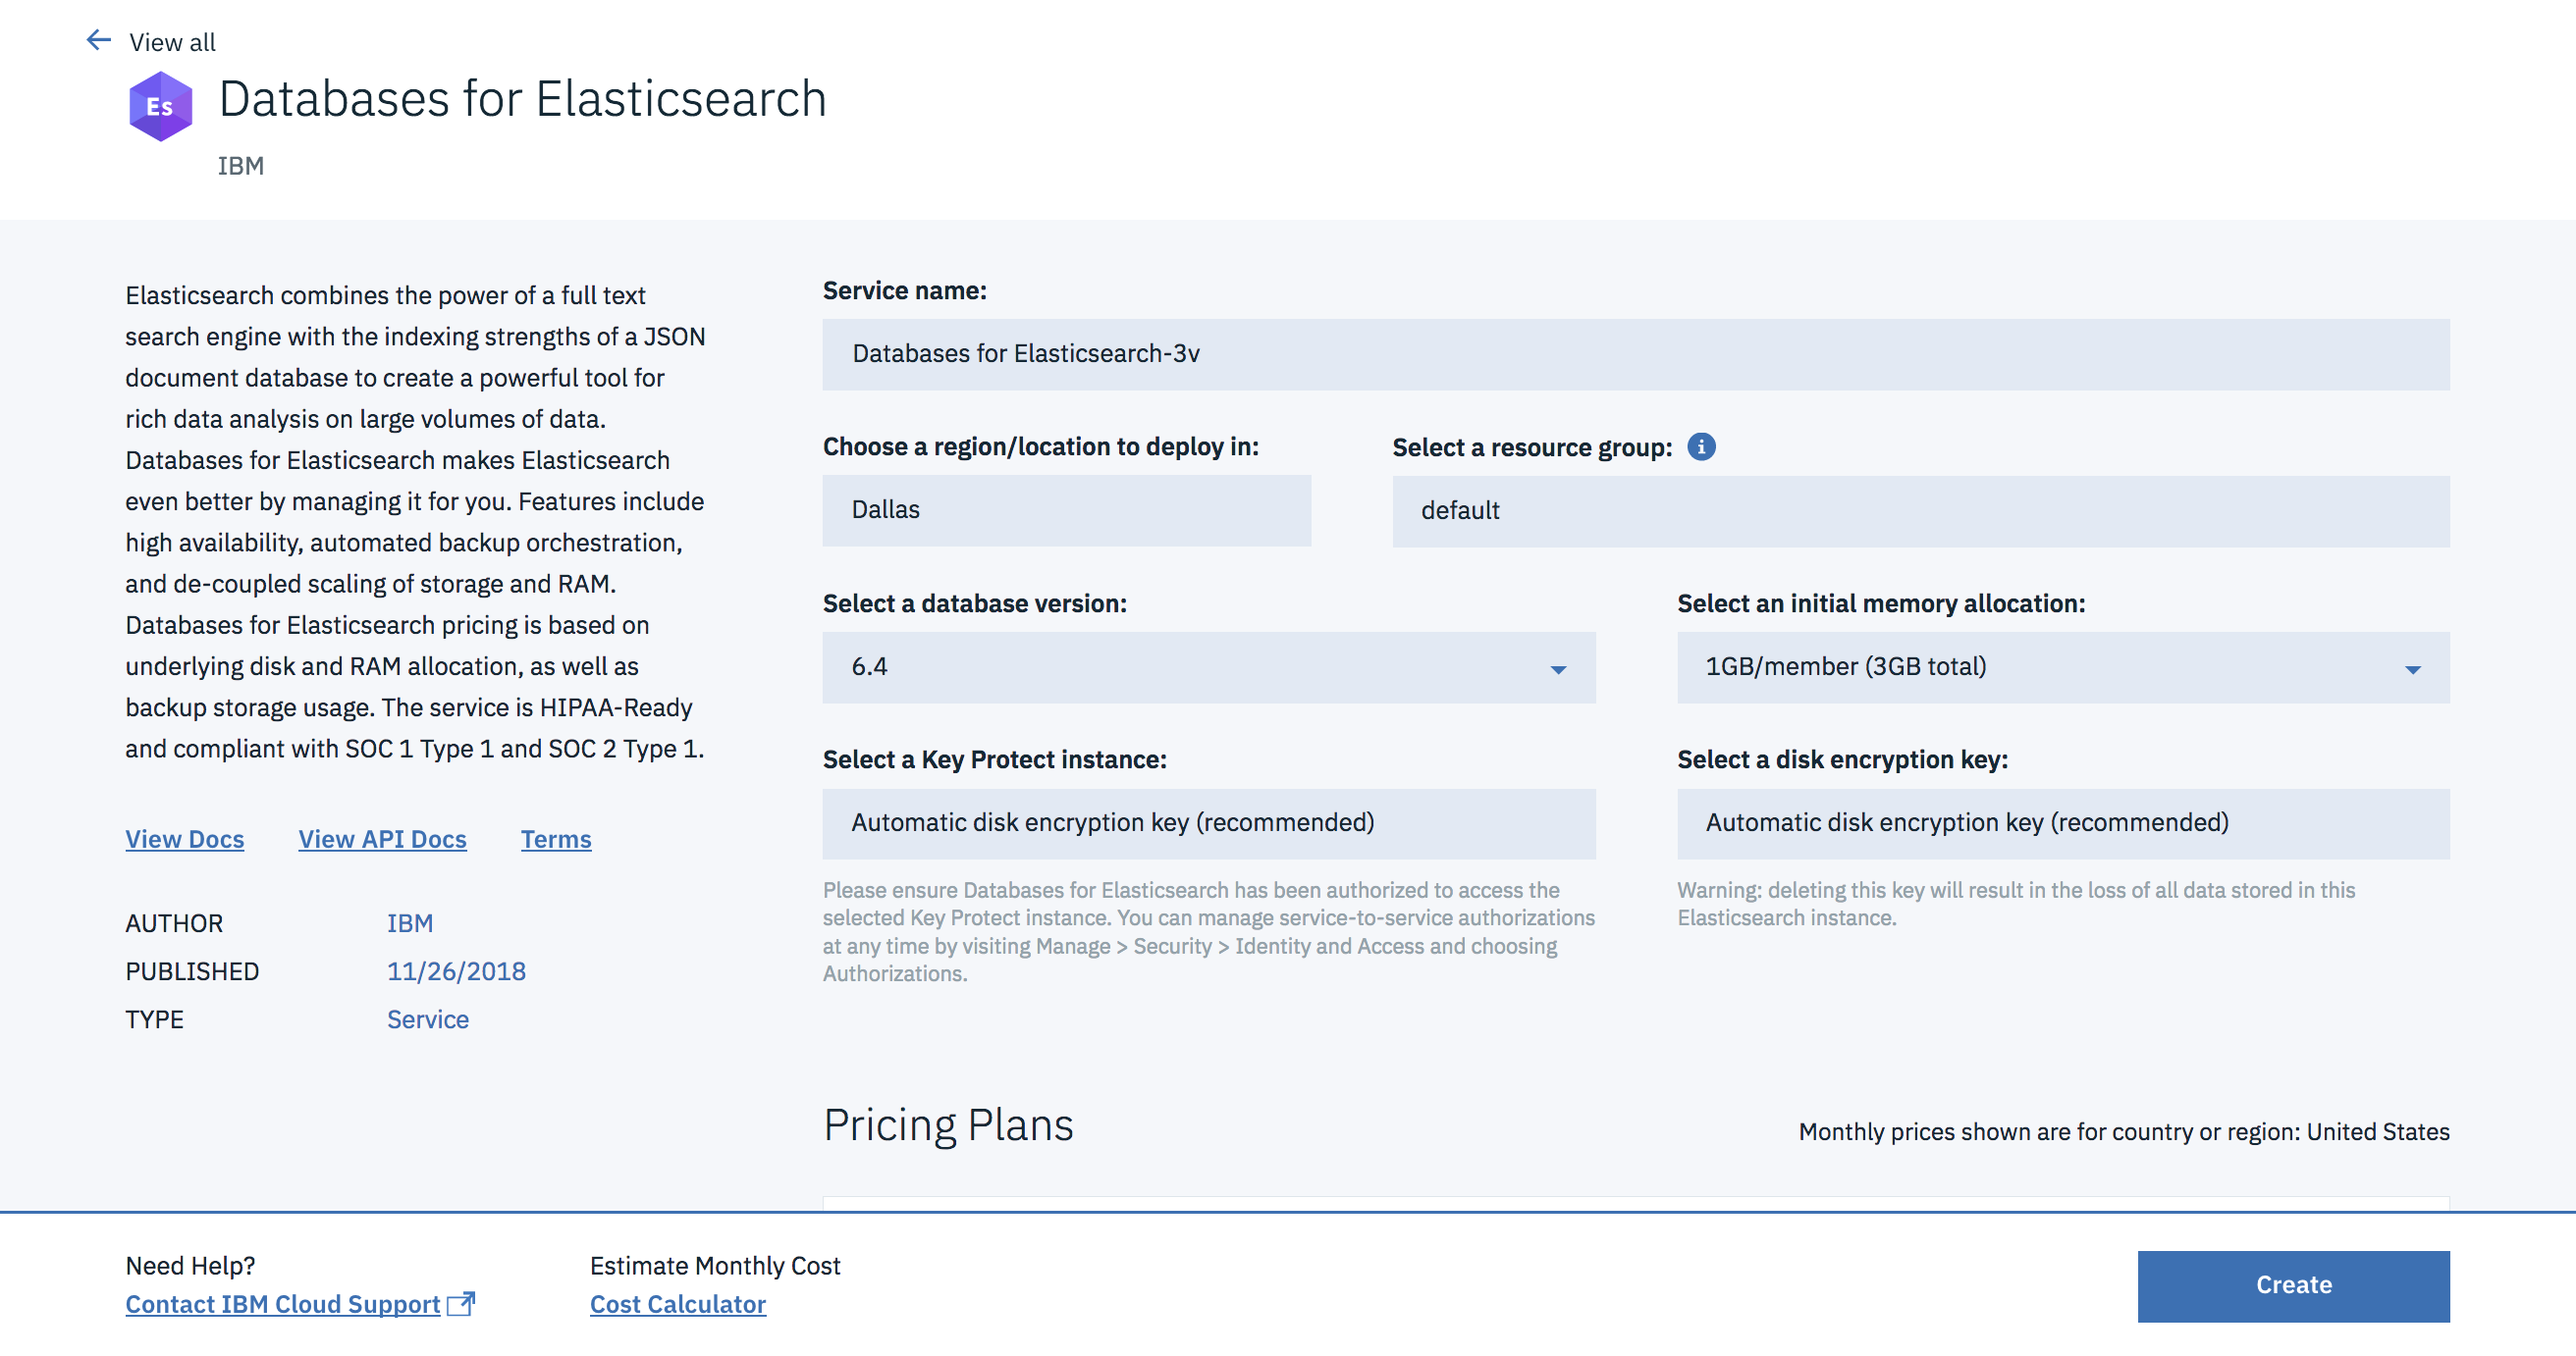
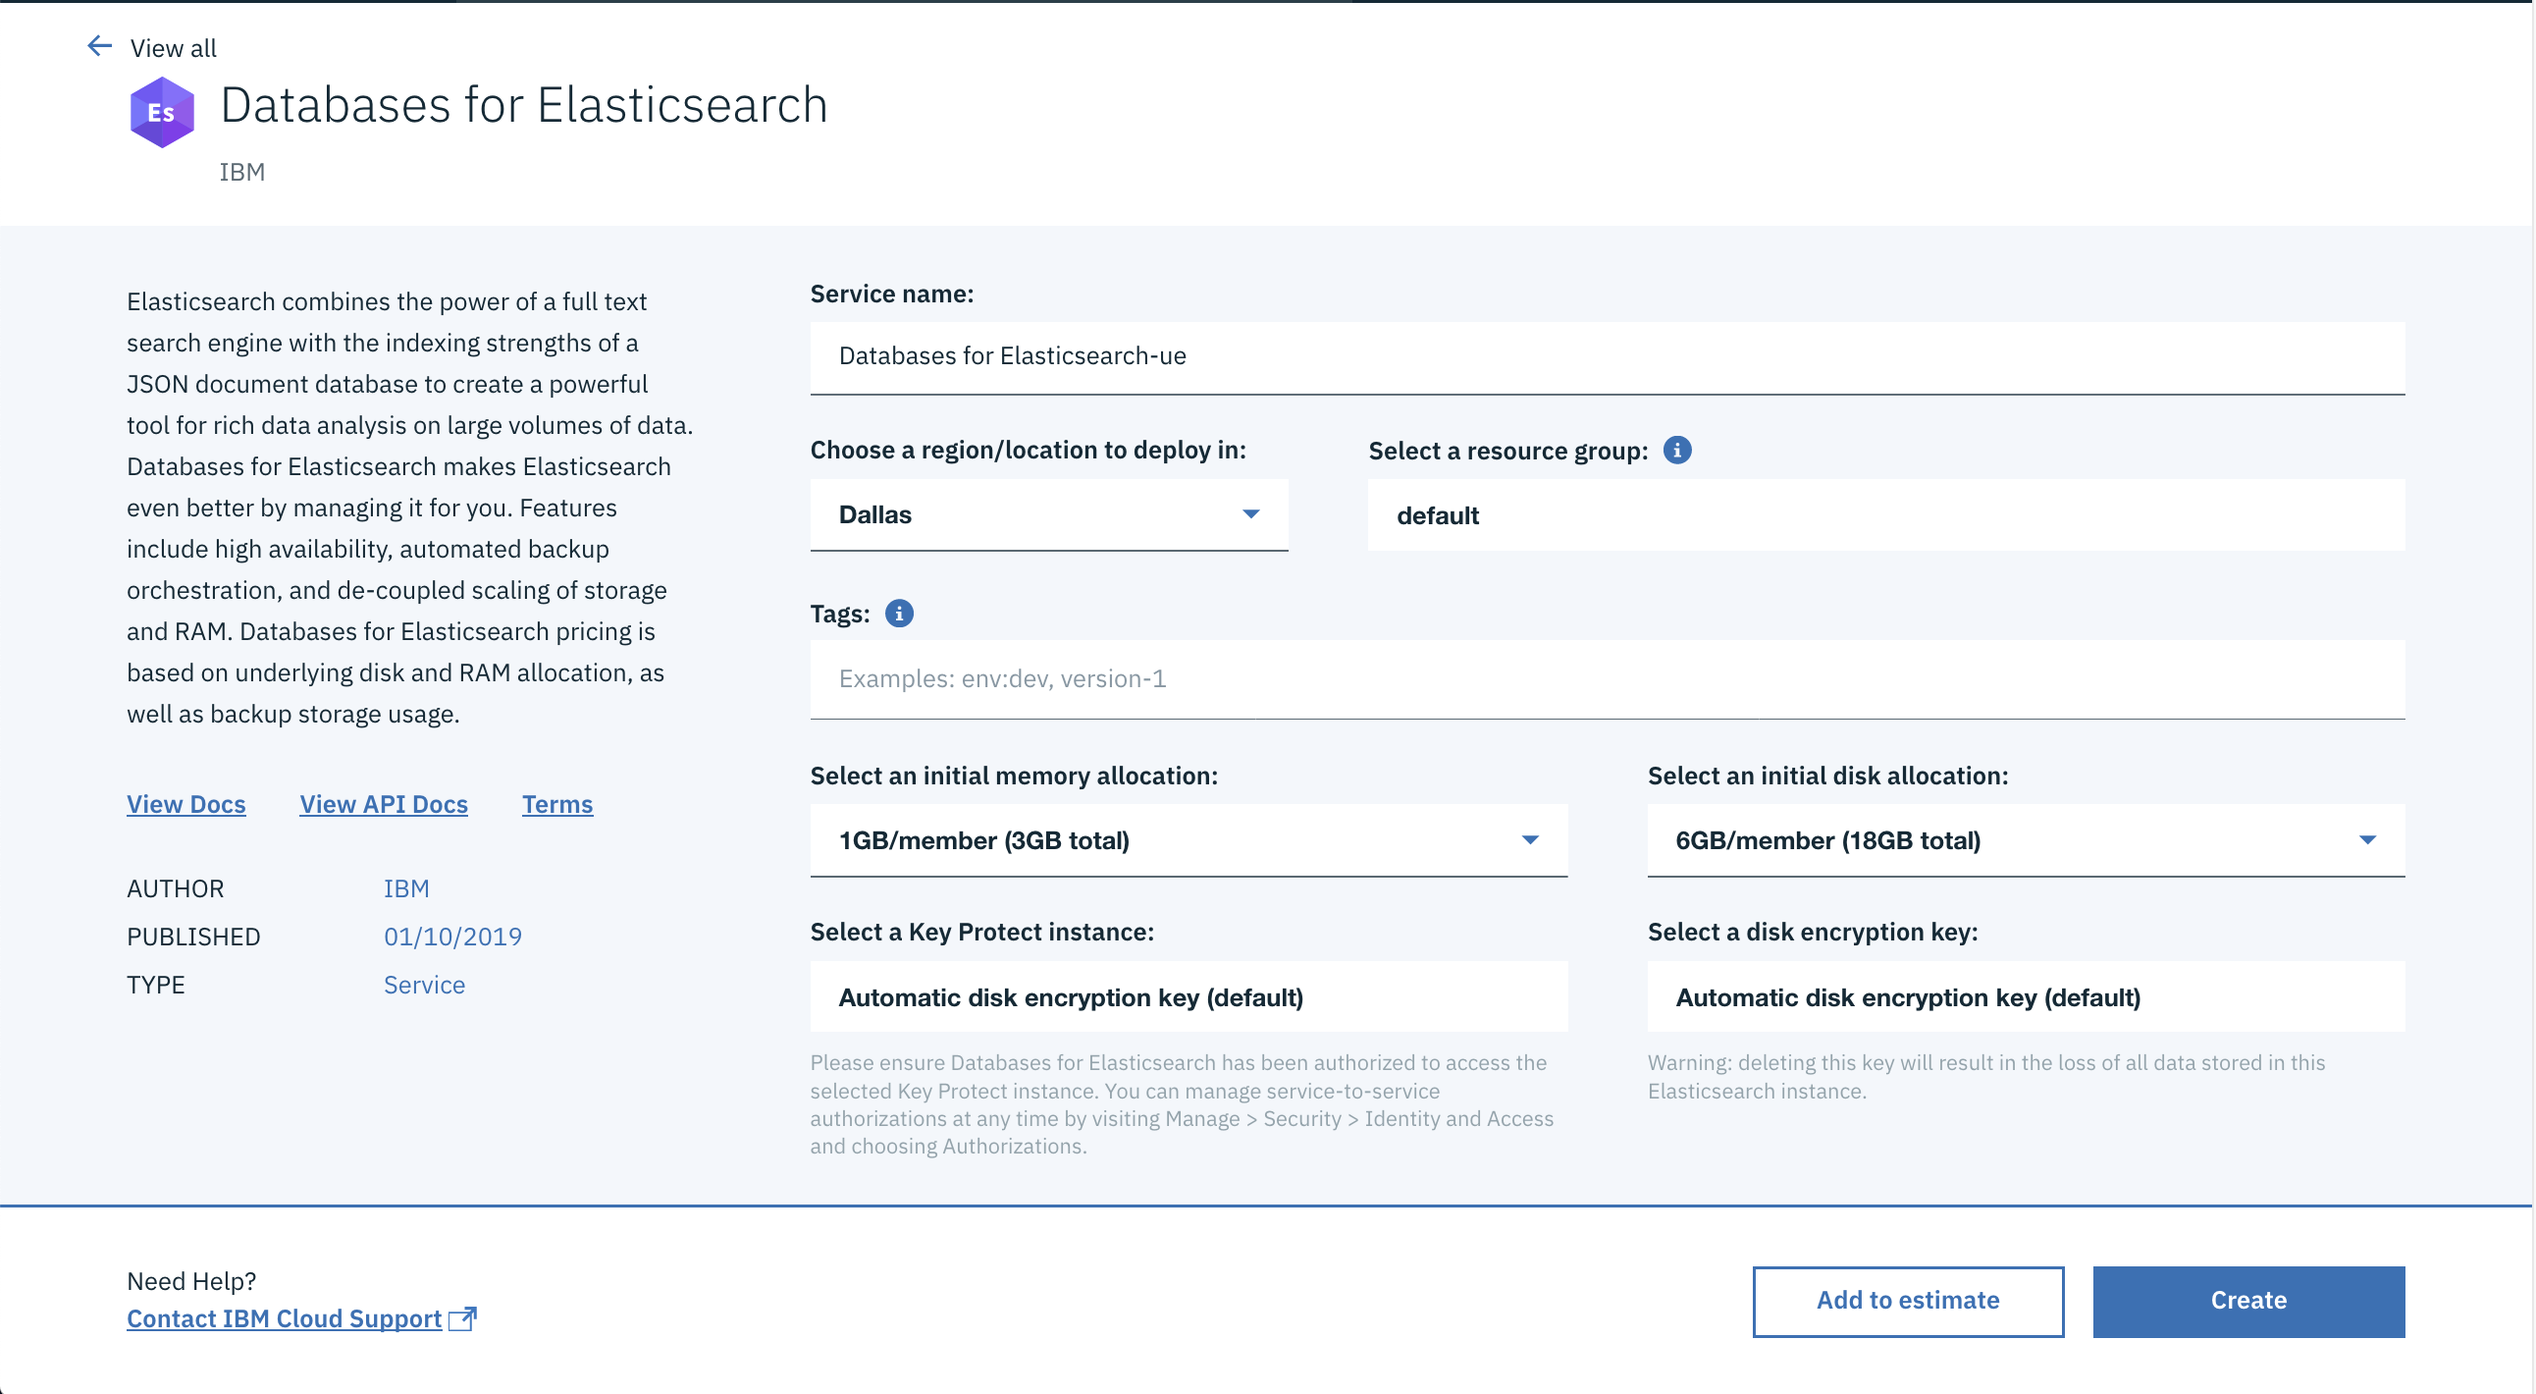
Feature provisioning terraform (#4)
* adding rc api and terraform instructions

* minor tweaks

* updating screenshot despite disk discrepancy

diff --git a/howto-provisioning.md b/howto-provisioning.md
@@ -1,8 +1,8 @@
 ---
 
 copyright:
-  years: 2018
-lastupdated: "2018-10-05"
+  years: 2018, 2019
+lastupdated: "2019-01-02"
 ---
 
 {:shortdesc: .shortdesc}
@@ -15,7 +15,6 @@ lastupdated: "2018-10-05"
 # Provisioning {{site.data.keyword.databases-for-elasticsearch}}
 
 To create an {{site.data.keyword.databases-for-elasticsearch_full}} deployment, you need to create an {{site.data.keyword.cloud}} service instance. A service instance can represent different types of service. The service type is determined by the service ID and you need to specify the appropriate service ID when you create a new service instance. The service ID for {{site.data.keyword.databases-for-elasticsearch}} is `databases_for_elasticsearch`.
-
 
 ## Using the catalog
 
@@ -33,14 +32,11 @@ Users can optionally set:
 
 1. **The resource group** - If you are organizing your services into [resource groups](/docs/resources/bestpractice_rgs.html#bp_resourcegroups), you can specify the resource group in this field. Otherwise, you can leave it at default.
 2. **Disk encryption** - Optionally, a Key Protect instance can be selected if the user has Key Protect configured. If it is configured, once the service is selected, a disk encryption key can be selected from the Key Protect service. By default, Key Protect is not used and the deployment automatically creates and manages its own disk encryption key. 
-
-Users cannot set:
-
-1. **The service plan** - A service can have a number of plan types with different pricing, resources or other features, each with their own service plan ID. {{site.data.keyword.databases-for-elasticsearch}} currently has one service plan, standard. 
+3. **Initial resource allocation** - Specify initial memory and disk sizes for your databases. The minimum sizes of memory and disk are selected by default.
 
 Once you select the appropriate settings, click **Create** to start the provisioning process off.
 
-The database takes some time to deploy. The user is navigated back to the {{site.data.keyword.cloud_notm}} Dashboard.
+The database takes some time to deploy, and you are navigated back to your {{site.data.keyword.cloud_notm}} Resource List.
 
 ## Using the Command Line
 
@@ -72,20 +68,74 @@ This command reports the current state of the service instance.
 
 ### Additional parameters
 
-The `service-instance-create` command supports a `-p` flag, which allows addition parameters to be passed to the provisioning process. The parameters are in JSON format. Some parameters values are CRNs (Cloud Resource Name), which uniquely identifies a resource in the cloud. All parameter names and values are passed as strings.
+The `service-instance-create` command supports a `-p` flag, which allows [additional parameters](#list-of-additional-parameters) to be passed to the provisioning process. The parameters are in JSON format. Some parameters values are CRNs (Cloud Resource Name), which uniquely identifies a resource in the cloud. All parameter names and values are passed as strings.
 
-* `backup_id`- A CRN of a backup resource to restore from. The backup must have been created by a database deployment with the same service ID. The backup is loaded after provisioning and the new deployment starts up that uses that data. A backup CRN is in the format `crn:v1:<...>:backup:<uuid>`. If omitted, the database is provisioned empty. This parameter cannot be set with a **version** parameter
-* `version` - The version of the database to be provisioned. If omitted, the database is created with the most recent major and minor version. This parameter cannot be set with a **backup_id** parameter.
-* `key_protect_key` - A CRN that references a Key Protect key, which is then used for disk encryption.
-* `members_memory_allocation_mb` -  Total amount of memory to be shared between the database members within the database. For example, if the value is "4096" then the two database members get 4 GB of RAM between them, giving 2 GB of RAM per member. If omitted, the default value is used; "2048".
-
-For example, if a database is being provisioned from a particular backup and the new database deployment needs two members, each with 2 GB, then the command looks like:
+For example, if a database is being provisioned from a particular backup and the new database deployment needs each database member to have with 2 GB, then the command looks like:
 
 ```
 ibmcloud resource service-instance-create example-es databases-for-elasticsearch standard us-south \
 -p \ '{
   "backup_id": "crn:v1:bluemix:public:databases-for-elasticsearch:us-south:a/54e8ffe85dcedf470db5b5ee6ac4a8d8:1b8f53db-fc2d-4e24-8470-f82b15c71717:backup:06392e97-df90-46d8-98e8-cb67e9e0a8e6",
-  "members_memory_allocation_mb": "4096"
+  "members_memory_allocation_mb": "6144"
 }'
 ```
 
+## Provisioning through the Resource Controller API
+
+You can provision new deployments by using the Resource Controller API. However, in order to use the Resource Controller API, you need some additional preparation.
+
+1. [Obtain an IAM token from your API token](https://{DomainName}/apidocs/resource-controller#authentication).
+2. You need to know the ID of the resource group that you would like to deploy to. This information is available through the [{{site.data.keyword.cloud_notm}} CLI](https://{DomainName}/docs/cli/reference/ibmcloud/cli_resource_group.html#ibmcloud_resource_groups). You can find a list of resource groups with `ibmcloud resource groups` and the ID of a resource group with `ibmcloud resource group`. 
+3. You need to know the region that you would like to deploy to.
+
+Once you have all the information, the create request is a `POST` to the `https://resource-controller.bluemix.net/v2/resource_instances` endpoint.
+
+```
+curl -X POST \
+  https://resource-controller.bluemix.net/v2/resource_instances \
+  -H 'Authorization: Bearer <>' \
+  -H 'Content-Type: application/json' \
+    -d '{
+    "name": "my-instance",
+    "target": "bluemix-us-south",
+    "resource_group": "5g9f447903254bb58972a2f3f5a4c711",
+    "resource_plan_id": "databases-for-elasticsearch-standard"
+  }'
+```
+The parameters `name`, `target`, `resource_group`, and `resource_plan_id` are all required. If needed, you can send [additional parameters](#list-of-additional-parameters) in the request body.
+
+More information on the Resource Controller API is found in its [API Reference](https://{DomainName}/apidocs/resource-controller#create-provision-a-new-resource-instance).
+
+## Provisioning with Terraform
+
+If you use [Terraform](https://www.terraform.io/) to manage your infrastructure, the [{{site.data.keyword.cloud_notm}} provider for Terraform](https://ibm-cloud.github.io/tf-ibm-docs/) supports provisioning {{site.data.keyword.databases-for-elasticsearch}}. 
+
+Example configuration:
+
+```
+data "ibm_resource_group" "group" {
+  name = "default"
+}
+resource "ibm_resource_instance" "resource_instance" {
+  name              = "example-terraform-elasticsearch"
+  location          = "us-south"
+  service           = "databases-for-elasticsearch"
+  plan              = "standard"
+  resource_group_id = "${data.ibm_resource_group.group.id}"
+  parameters = {}
+}
+```
+
+The `name`, `location`, `service`, and `plan` fields are all required. The `resource_group_id` is not required, and it uses the default resource group if not supplied.
+
+You can send any needed [additional parameters](#list-of-additional-parameters) in the `parameters` field as a JSON object.
+
+More information about this specific {{site.data.keyword.cloud_notm}} provider configuration is available under the [Cloud Foundry Resources, `resource_instance`](https://ibm-cloud.github.io/tf-ibm-docs/v0.14.0/r/resource_instance.html) documentation.
+
+## List of Additional Parameters
+
+* `backup_id`- A CRN of a backup resource to restore from. The backup must have been created by a database deployment with the same service ID. The backup is loaded after provisioning and the new deployment starts up that uses that data. A backup CRN is in the format `crn:v1:<...>:backup:<uuid>`. If omitted, the database is provisioned empty. This parameter cannot be set with a **version** parameter
+* `version` - The version of the database to be provisioned. If omitted, the database is created with the most recent major and minor version. This parameter cannot be set with a **backup_id** parameter.
+* `key_protect_key` - A CRN that references a Key Protect key, which is then used for disk encryption.
+* `members_memory_allocation_mb` -  Total amount of memory to be shared between the database members within the database. For example, if the value is "6144" then the three database members get 6 GB of RAM between them, giving 2 GB of RAM per member. If omitted, the default value is used; "3072".
+* `members_disk_allocation_mb` - Total amount of disk to be shared between the database members within the database. For example, if the value is "30720" then the  database members get 30 GB of disk between them, giving 10 GB of disk per member. If omitted, the default value is used; "15360".
